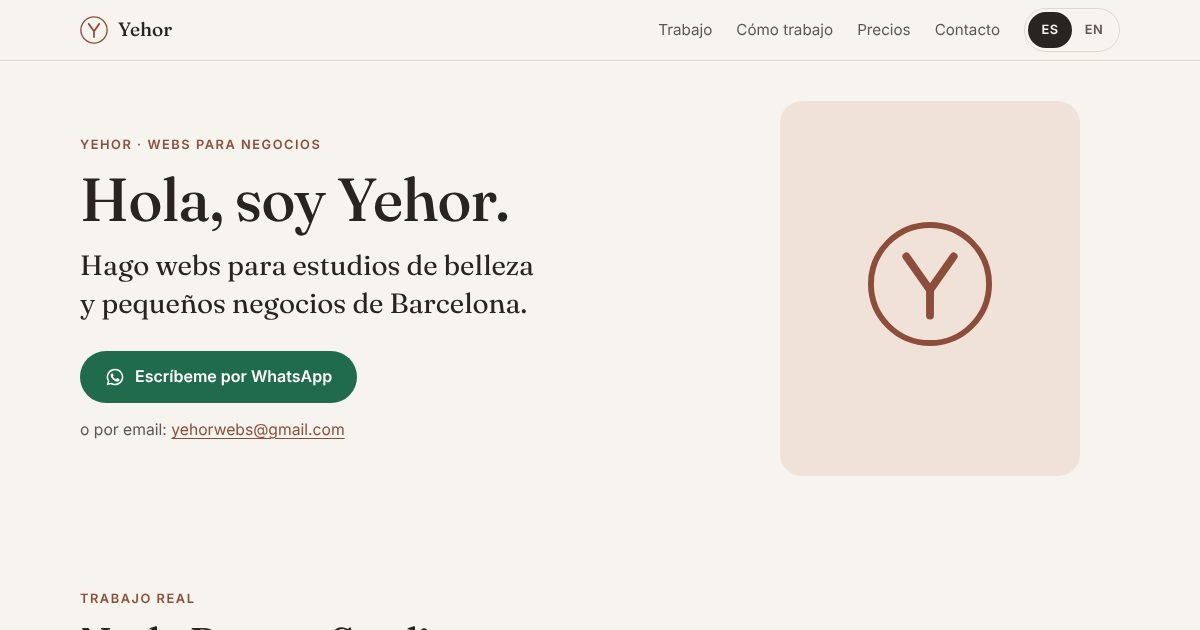
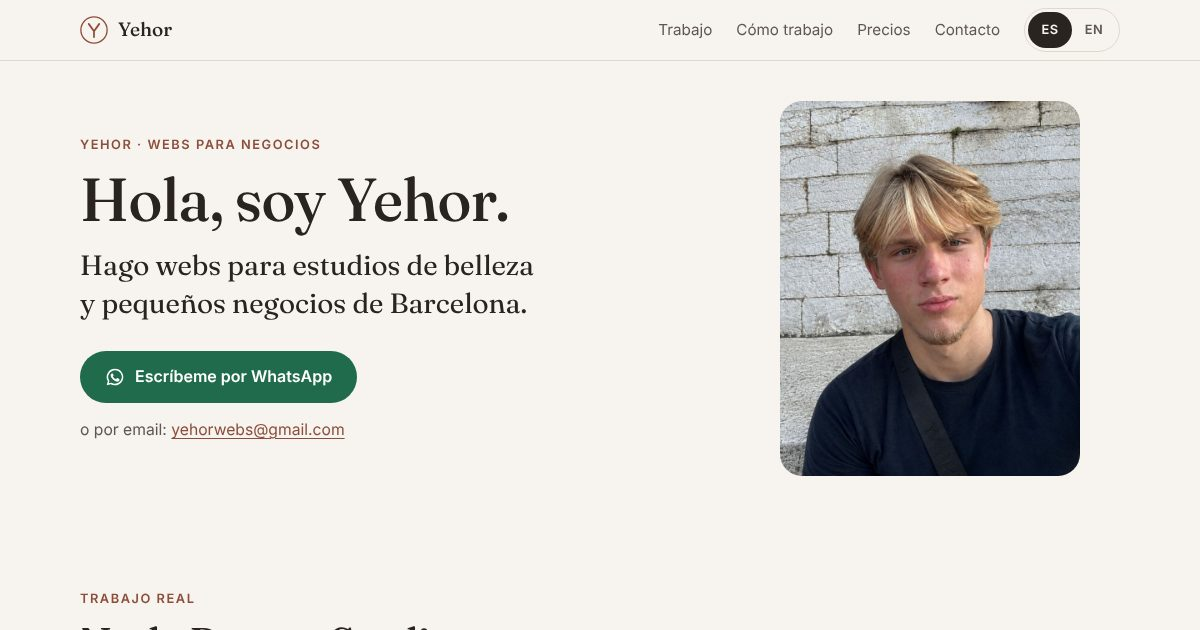
Add portrait, regenerate share image, postal code in aviso legal
Claude-Session: https://claude.ai/code/session_017rep4cdCo4UYRTwaMoYWaz

Changed region(s): [[0.6475, 0.1508, 0.925, 0.754]]

diff --git a/aviso-legal.html b/aviso-legal.html
@@ -41,7 +41,7 @@
       <dl>
         <div><dt>Titular</dt><dd>Yehor Vasylenko</dd></div>
         <div><dt>NIE</dt><dd>Y9897761R</dd></div>
-        <div><dt>Domicilio</dt><dd>Plaça d’Olèrdola, 2, Barcelona, España</dd></div>
+        <div><dt>Domicilio</dt><dd>Plaça d’Olèrdola, 2, 08023 Barcelona, España</dd></div>
         <div><dt>Email</dt><dd><a href="mailto:yehorwebs@gmail.com">yehorwebs@gmail.com</a></dd></div>
         <div><dt>Teléfono</dt><dd><a href="tel:+34654269467">+34 654 269 467</a></dd></div>
         <div><dt>Actividad</dt><dd>Diseño y desarrollo de páginas web para pequeños negocios.</dd></div>

diff --git a/index.html b/index.html
@@ -28,6 +28,7 @@
   <link rel="icon" href="/favicon-32.png" sizes="32x32" type="image/png">
   <link rel="apple-touch-icon" href="/apple-touch-icon.png">
 
+  <link rel="preload" href="/img/yehor.jpg" as="image" fetchpriority="high">
   <link rel="preload" href="/fonts/inter-latin.woff2" as="font" type="font/woff2" crossorigin>
   <link rel="preload" href="/fonts/fraunces-latin.woff2" as="font" type="font/woff2" crossorigin>
   <link rel="stylesheet" href="/css/styles.css">

diff --git a/README.md b/README.md
@@ -8,9 +8,9 @@ Todo el contenido está en **`js/content.js`**:
 - `caseStudy.review` y `caseStudy.results`: déjalos vacíos hasta tener datos reales; vacío = no se muestra.
 - `projects`: copia un bloque para añadir una demo. Capturas en `img/work/` (800×500, `.webp`).
 
-## Archivos que faltan
-- `img/yehor.jpg` — tu retrato (vertical 4:5, ~960×1200, < 150 KB). Mientras no exista se ve un monograma "Y".
-- Después de poner la foto, regenera `img/og.jpg` con `tools/make-og.mjs`.
+## Foto y vista previa
+- `img/yehor.jpg` — tu retrato (vertical 4:5, 720×900, < 150 KB).
+- Si cambias la foto, regenera `img/og.jpg` con `tools/make-og.mjs`.
 
 ## Publicar en Vercel
 1. Importa el repo en Vercel (Framework: *Other*, sin build command).
